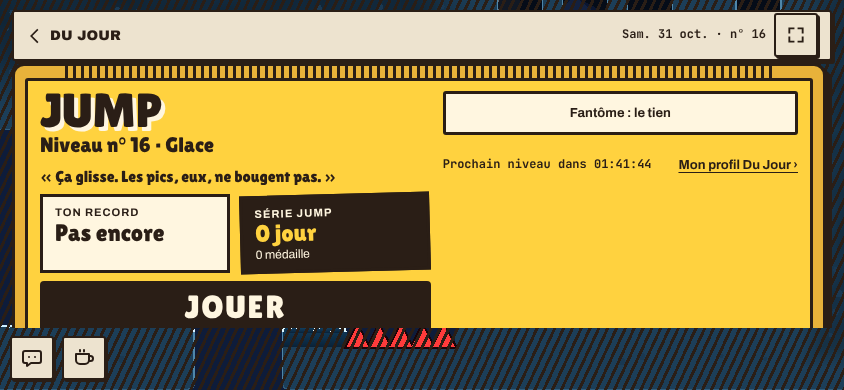
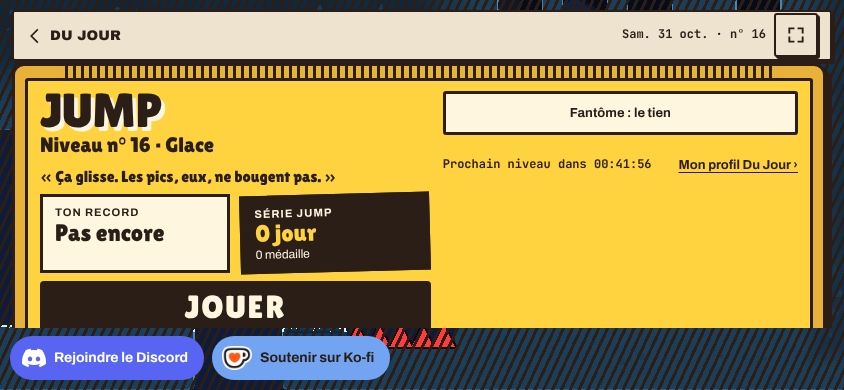
Lot S1 : Discord et Ko-fi dans les jeux avec l'aspect des boutons du portail
Claude-Session: https://claude.ai/code/session_012eMWG36Y1u5dAEff1c1V8B

Changed region(s): [[0.0, 0.8615, 0.4621, 0.9846], [0.7085, 0.4, 0.7701, 0.4308]]

diff --git a/packages/ui/src/liensCommunaute.ts b/packages/ui/src/liensCommunaute.ts
@@ -1,41 +1,40 @@
 import "./liensCommunaute.css";
+import pictoDiscord from "./discord.svg?no-inline";
+import tasseKofi from "./kofi-tasse.png";
 
-// Lot S1 : les liens de la communauté (Discord, Ko-fi), **le seul composant et les seules adresses** de la plateforme : le pied du portail (`boutonCommunaute.ts`) et l'accueil de chaque jeu
-// (deux plaques de 44 px, icônes au trait, en bas à gauche). De simples liens : aucun script, bouton intégré ni image d'un service tiers (règle du site), nouvel onglet sans transmettre la
-// page d'origine, aucun paramètre qui identifie le joueur. **À la demande, et sans rien importer du reste du socle** : les textes lui sont donnés, déjà traduits.
+// Lot S1 : les liens de la communauté (Discord, Ko-fi), **le seul composant et les seules adresses** de la plateforme, avec **le même aspect partout** : celui des boutons du pied du portail (le bleu de Ko-fi
+// et sa tasse, le bleu-violet de Discord et son pictogramme, faits ici — rien n'est chargé de chez eux). De simples liens : aucun script, bouton ni widget intégré (cookies et traceurs tiers), nouvel onglet sans
+// transmettre la page d'origine, aucun paramètre qui identifie le joueur. Les textes sont donnés déjà traduits. Sur l'accueil d'un jeu : `liensCommunaute`, en bas à gauche ; dans le pied du portail : `lienCommunaute`.
 
 export const LIEN_DISCORD = "https://discord.gg/2KZkUSpDej";
 export const LIEN_KOFI = "https://ko-fi.com/C7X829MCE1";
 export type LienCommunaute = "discord" | "kofi";
 export const ADRESSES_COMMUNAUTE: Readonly<Record<LienCommunaute, string>> = { discord: LIEN_DISCORD, kofi: LIEN_KOFI };
 
-/** Les icônes au trait (24 × 24, `currentColor`) : une bulle de discussion, une tasse. */
-const TRACES: Readonly<Record<LienCommunaute, string>> = {
-  discord: "M5 5h14a2 2 0 0 1 2 2v8a2 2 0 0 1-2 2h-8l-4 3v-3H5a2 2 0 0 1-2-2V7a2 2 0 0 1 2-2zM9 11h.01M15 11h.01",
-  kofi: "M4 8h13v6a4 4 0 0 1-4 4H8a4 4 0 0 1-4-4zM17 10h1.5a2.5 2.5 0 0 1 0 5H17M8 4v1.5M12 4v1.5",
-};
+/** Un bouton : le pictogramme (hébergé ici) et le nom. */
+export function lienCommunaute(type: LienCommunaute, texte: string, id: string): HTMLAnchorElement {
+  const a = document.createElement("a");
+  a.className = `dj-communaute__lien dj-communaute__lien--${type}`;
+  a.id = id;
+  a.href = ADRESSES_COMMUNAUTE[type];
+  a.target = "_blank";
+  a.rel = "noopener noreferrer";
+  const img = document.createElement("img");
+  img.alt = "";
+  img.src = type === "kofi" ? tasseKofi : pictoDiscord;
+  img.height = 24;
+  img.width = type === "kofi" ? 30 : 24;
+  const s = document.createElement("span");
+  s.textContent = texte;
+  a.append(img, s);
+  return a;
+}
 
-/** Les deux plaques en bas à gauche d'un écran d'accueil (le nom lu en `aria-label`) : l'appelant les pose dans l'écran, elles disparaissent avec lui. Au changement de langue il en refait un groupe. */
+/** Les deux boutons en bas à gauche d'un écran d'accueil : l'appelant les pose dans l'écran, ils disparaissent avec lui. Au changement de langue il en refait un groupe. */
 export function liensCommunaute(textes: Readonly<Record<LienCommunaute, string>>): HTMLElement {
   const g = document.createElement("div");
   g.className = "dj-communaute dj-sombre";
   g.id = "communaute";
-  for (const type of ["discord", "kofi"] as const) {
-    const a = document.createElement("a");
-    a.className = "dj-communaute__plaque";
-    a.id = `communaute-${type}`;
-    a.href = ADRESSES_COMMUNAUTE[type];
-    a.target = "_blank";
-    a.rel = "noopener noreferrer";
-    a.setAttribute("aria-label", textes[type]);
-    const s = document.createElementNS("http://www.w3.org/2000/svg", "svg");
-    s.setAttribute("viewBox", "0 0 24 24");
-    s.setAttribute("aria-hidden", "true");
-    const p = document.createElementNS("http://www.w3.org/2000/svg", "path");
-    p.setAttribute("d", TRACES[type]);
-    s.append(p);
-    a.append(s);
-    g.append(a);
-  }
+  g.append(lienCommunaute("discord", textes.discord, "communaute-discord"), lienCommunaute("kofi", textes.kofi, "communaute-kofi"));
   return g;
 }

diff --git a/packages/ui/src/liensCommunaute.css b/packages/ui/src/liensCommunaute.css
@@ -1,34 +1,54 @@
-/* Lot S1 : les liens de la communauté (Discord, Ko-fi) — deux plaques de 44 px en bas à gauche de l'accueil d'un jeu, sur la scène sous le voile (le bas à droite est la bande d'aide de la manette).
-   Jetons seulement. L'écran qui les porte leur réserve une bande en bas : rien ne passe dessous (le contenu défile s'il manque de place). */
+/* Lot S1 : les liens de la communauté (Discord, Ko-fi) — le même aspect dans le pied du portail et sur l'accueil des jeux. Jetons seulement. Sur l'accueil d'un jeu : en bas à gauche, sur la scène sous le
+   voile (le bas à droite est la bande d'aide de la manette) ; l'écran qui les porte leur réserve une bande en bas, rien ne passe dessous (le contenu défile s'il manque de place). */
+.dj-communaute__lien {
+  display: inline-flex;
+  align-items: center;
+  gap: var(--dj-espace-3);
+  min-height: var(--dj-cible);
+  padding: 0 var(--dj-espace-7) 0 var(--dj-espace-4);
+  border-radius: 22px;
+  font-family: var(--dj-police-texte);
+  font-weight: 700;
+  font-size: var(--dj-taille-14);
+  line-height: 1.2;
+  text-decoration: none;
+  box-sizing: border-box;
+  transition: transform var(--dj-duree-courte);
+}
+.dj-communaute__lien:hover {
+  transform: translateY(-2px);
+}
+.dj-communaute__lien img {
+  display: block;
+  flex: none;
+  width: auto;
+  height: 24px;
+}
+.dj-communaute__lien--kofi {
+  background: var(--dj-kofi);
+  color: var(--dj-encre);
+}
+.dj-communaute__lien--discord {
+  background: var(--dj-discord);
+  color: var(--dj-blanc);
+  padding-left: var(--dj-espace-5);
+}
 .dj-communaute {
   position: fixed;
   z-index: 1;
   left: max(10px, env(safe-area-inset-left));
   bottom: max(10px, env(safe-area-inset-bottom));
   display: flex;
+  flex-wrap: wrap;
   gap: var(--dj-espace-3);
-}
-.dj-communaute a {
-  display: grid;
-  place-items: center;
-  box-sizing: border-box;
-  width: var(--dj-cible);
-  height: var(--dj-cible);
-  background: var(--dj-creme);
-  color: var(--dj-encre);
-  border: var(--dj-trait) solid var(--dj-encre);
-  border-radius: var(--dj-rayon-bouton);
-  box-shadow: var(--dj-ombre-bouton);
-}
-.dj-communaute svg {
-  width: 24px;
-  height: 24px;
-  fill: none;
-  stroke: currentColor;
-  stroke-width: 2;
-  stroke-linecap: round;
-  stroke-linejoin: round;
+  max-width: calc(100vw - 20px);
 }
 :is(.cadre, .voile, .accueil):has(.dj-communaute) {
   padding-bottom: calc(max(10px, env(safe-area-inset-bottom)) + var(--dj-cible) + var(--dj-espace-3));
+}
+/* Étroit : les deux boutons passent sur deux lignes, la bande réservée double. */
+@media (max-width: 480px) {
+  :is(.cadre, .voile, .accueil):has(.dj-communaute) {
+    padding-bottom: calc(max(10px, env(safe-area-inset-bottom)) + 2 * var(--dj-cible) + 2 * var(--dj-espace-3));
+  }
 }

diff --git a/apps/web/e2e/accueil.spec.ts b/apps/web/e2e/accueil.spec.ts
@@ -52,10 +52,10 @@ test.describe("l'accueil", () => {
     // Plus de carte de profil sur l'accueil : un lien vers le profil commun du portail, avec le chemin de retour vers le jeu.
     await expect(page.locator("#home-profile")).toHaveAttribute("href", /profil\/\?retour=/);
     for (const label of ["Archives", "Réglages", "Comment jouer"]) await expect(page.locator("#home .links").getByRole("button", { name: new RegExp(label) })).toBeVisible();
-    // Lot S1 : Discord et Ko-fi, deux plaques de 44 px en bas à gauche, en liens sortants sans rien qui identifie le joueur ; elles ne chevauchent rien.
+    // Lot S1 : Discord et Ko-fi, deux boutons de 44 px de haut (l'aspect du portail) en bas à gauche, en liens sortants sans rien qui identifie le joueur ; elles ne chevauchent rien.
     const plaques = await boxes(page, ["#communaute-discord", "#communaute-kofi", "#home-daily", "#home-salon", "#home-portail", "#home .links"]);
     expect(plaques).toHaveLength(6);
-    for (const b of plaques.slice(0, 2)) expect([b.w, b.h]).toEqual([44, 44]);
+    for (const b of plaques.slice(0, 2)) expect(b.h).toBe(44);
     expect(plaques[0]!.x, "bas à gauche").toBeLessThan(DESKTOP.width / 4);
     expect(plaques[0]!.y).toBeGreaterThan(DESKTOP.height / 2);
     expectNoOverlap(plaques, DESKTOP);
@@ -65,8 +65,8 @@ test.describe("l'accueil", () => {
       await expect(lien).toHaveAttribute("target", "_blank");
       await expect(lien).toHaveAttribute("rel", "noopener noreferrer");
     }
-    await expect(page.locator("#communaute-discord")).toHaveAttribute("aria-label", "Rejoindre le Discord");
-    await expect(page.locator("#communaute-kofi")).toHaveAttribute("aria-label", "Soutenir sur Ko-fi");
+    await expect(page.locator("#communaute-discord")).toHaveText("Rejoindre le Discord");
+    await expect(page.locator("#communaute-kofi")).toHaveText("Soutenir sur Ko-fi");
     // Le HUD de course n'est pas là : on est à l'accueil.
     await expect(page.locator("#menu")).toBeHidden();
     await expect(page.locator("#speed")).toBeHidden();

diff --git a/apps/portail/src/portail.ts b/apps/portail/src/portail.ts
@@ -39,9 +39,7 @@ import {
   visibiliteDeLaPage,
 } from "@cdj/ui";
 import { CATALOGUE_PORTAIL } from "./catalogue";
-import { boutonCommunaute } from "@cdj/ui/src/boutonCommunaute";
-import pictoDiscord from "./discord.svg?no-inline";
-import tasseKofi from "./kofi-tasse.png";
+import { lienCommunaute } from "@cdj/ui/src/liensCommunaute";
 import { avancement, baseApi, formatCompte, lireJour, prochainMinuit, type Etat, type JeuDuJour, type Lecture } from "./jour";
 import { dans, nonLue } from "./nouveautesDonnees";
 import { cartes, numeroDeJournee, type CarteJeu } from "./jours";
@@ -324,16 +322,9 @@ function rendre(): void {
   if (focus) racine.querySelector<HTMLElement>(`[data-cle="${focus}"]`)?.focus();
 }
 
-/**
- * Les boutons Discord et Ko-fi du pied : le composant du socle (`boutonCommunaute`, lot S1 — les adresses n'y sont écrites qu'une fois), à l'allure des services (leur bleu, leur pictogramme ;
- * l'habillage est dans `portail.css`) : de simples liens, **ni widget ni script intégrés** (cookies et traceurs tiers). L'image est hébergée ici.
- */
-function lienDiscord(texte: string): HTMLElement {
-  return boutonCommunaute("discord", { texte, classe: "portail-discord", id: "discord", image: { src: pictoDiscord, classe: "portail-discord__picto", largeur: 24, hauteur: 24 } });
-}
-function lienKofi(texte: string): HTMLElement {
-  return boutonCommunaute("kofi", { texte, classe: "portail-kofi", id: "kofi", image: { src: tasseKofi, classe: "portail-kofi__tasse", largeur: 30, hauteur: 24 } });
-}
+/** Les boutons Discord et Ko-fi du pied : le composant du socle (`lienCommunaute`, lot S1), le même aspect que sur l'accueil des jeux. */
+const lienDiscord = (texte: string): HTMLElement => lienCommunaute("discord", texte, "discord");
+const lienKofi = (texte: string): HTMLElement => lienCommunaute("kofi", texte, "kofi");
 
 // --- Le compte à rebours (heure du serveur) -----------------------------------------------------------------------------------
 let minuterie: ReturnType<typeof setTimeout> | null = null;

diff --git a/apps/portail/src/portail.css b/apps/portail/src/portail.css
@@ -653,57 +653,6 @@
   margin: var(--dj-espace-4) 0 var(--dj-espace-2);
 }
 
-/* Le bouton Ko-fi : l'allure de celui de Ko-fi (bleu de leur charte, la tasse au cœur), fait ici — rien n'est chargé de leur site. Texte encre : le blanc d'origine ne passe pas le contraste. */
-.portail-kofi {
-  --kofi-bleu: #72a4f2;
-  display: inline-flex;
-  align-items: center;
-  gap: var(--dj-espace-3);
-  min-height: var(--dj-cible);
-  padding: 0 var(--dj-espace-7) 0 var(--dj-espace-4);
-  border-radius: 22px;
-  background: var(--kofi-bleu);
-  color: var(--dj-encre);
-  font-weight: 700;
-  font-size: var(--dj-taille-14);
-  text-decoration: none;
-  box-sizing: border-box;
-  transition: transform var(--dj-duree-courte);
-}
-.portail-kofi:hover {
-  transform: translateY(-2px);
-}
-.portail-kofi__tasse {
-  display: block;
-  width: auto;
-  height: 24px;
-}
-
-/* Le bouton Discord : l'allure de Discord (le bleu-violet de leur charte, leur pictogramme), fait ici — rien n'est chargé de leur site. Texte blanc : 4,6:1 sur ce bleu. */
-.portail-discord {
-  --discord-bleu: #5865f2;
-  display: inline-flex;
-  align-items: center;
-  gap: var(--dj-espace-3);
-  min-height: var(--dj-cible);
-  padding: 0 var(--dj-espace-7) 0 var(--dj-espace-5);
-  border-radius: 22px;
-  background: var(--discord-bleu);
-  color: #fff;
-  font-weight: 700;
-  font-size: var(--dj-taille-14);
-  text-decoration: none;
-  box-sizing: border-box;
-  transition: transform var(--dj-duree-courte);
-}
-.portail-discord:hover {
-  transform: translateY(-2px);
-}
-.portail-discord__picto {
-  display: block;
-  flex: none;
-}
-
 /* Lot P : le badge d'une cartouche du portail pour un jeu pas encore `on` (aperçu de PR). */
 .dj-badge-brouillon {
   display: inline-block;

diff --git a/packages/ui/src/contraste.ts b/packages/ui/src/contraste.ts
@@ -41,6 +41,8 @@ export const PAIRES: readonly PaireCouleurs[] = [
   { couleur: "dj-papier", fond: "dj-encre", taille: "normal", usage: "étiquette « Important » d'un message en direct (information)" },
   { couleur: "dj-moutarde", fond: "dj-encre", taille: "normal", usage: "étiquette « Important » d'un message en direct" },
   { couleur: "dj-terre-texte", fond: "dj-terre", taille: "normal", usage: "bouton principal de marque" },
+  { couleur: "dj-encre", fond: "dj-kofi", taille: "normal", usage: "bouton Ko-fi" },
+  { couleur: "dj-blanc", fond: "dj-discord", taille: "normal", usage: "bouton Discord" },
   { couleur: "dj-encre", fond: "dj-moutarde", taille: "normal", usage: "avatar, coque Jump" },
   { couleur: "dj-ambre", fond: "dj-ecran", taille: "normal", usage: "chiffres de l'afficheur" },
   { couleur: "dj-ecran-texte", fond: "dj-ecran", taille: "normal", usage: "légende de l'afficheur" },

diff --git a/apps/jump/e2e/plein-ecran.spec.ts b/apps/jump/e2e/plein-ecran.spec.ts
@@ -140,7 +140,7 @@ for (const viewport of [
       await expect(page.locator("#communaute")).toBeVisible();
       const plaques = await boxes(page, ["#communaute-discord", "#communaute-kofi", "#home-play", "#home-ghost"]);
       expect(plaques).toHaveLength(4); // la rangée Archives / Comment jouer / Réglages défile au-dessus de la bande réservée aux plaques (la coque dépasse l'écran en 844 × 390)
-      for (const b of plaques.slice(0, 2)) expect([b.w, b.h]).toEqual([44, 44]);
+      for (const b of plaques.slice(0, 2)) expect(b.h).toBe(44);
       expect(plaques[0]!.x, "bas à gauche").toBeLessThan(viewport.width / 4);
       expectNoOverlap(plaques, viewport);
       for (const [id, href] of [["discord", "https://discord.gg/2KZkUSpDej"], ["kofi", "https://ko-fi.com/C7X829MCE1"]] as const) {

diff --git a/apps/tower/src/accueil.css b/apps/tower/src/accueil.css
@@ -387,7 +387,7 @@
   }
 }
 
-/* Lot S1 : l'accueil qui porte les plaques Discord / Ko-fi (liensCommunaute.css réserve une bande en bas, padding du voile) : c'est la colonne qui défile, dans ce qui reste, pour que le contenu ne passe jamais sous les plaques. */
+/* Lot S1 : l'accueil qui porte les boutons Discord / Ko-fi (liensCommunaute.css réserve une bande en bas, padding du voile) : c'est la colonne qui défile, dans ce qui reste, pour que le contenu ne passe jamais sous les boutons. */
 .voile--accueil:has(.dj-communaute) {
   overflow-y: hidden;
 }

diff --git a/apps/tower/e2e/partie.spec.ts b/apps/tower/e2e/partie.spec.ts
@@ -41,7 +41,7 @@ async function verifierLiensCommunaute(page: import("@playwright/test").Page): P
   const plaques = [await rect("#communaute-discord"), await rect("#communaute-kofi")];
   const vue = page.viewportSize()!;
   for (const b of plaques) {
-    expect([b.width, b.height]).toEqual([44, 44]);
+    expect(b.height).toBe(44);
     expect(b.x).toBeLessThan(vue.width / 4);
     expect(b.y).toBeGreaterThan(vue.height / 2);
     for (const autre of [await rect("#accueil-jouer"), await rect("#accueil-aide")]) {

diff --git a/packages/ui/src/jetons.ts b/packages/ui/src/jetons.ts
@@ -17,6 +17,9 @@ export const COULEURS = {
   "dj-terre": "#C2401F",
   "dj-terre-texte": "#FFF4E0",
   "dj-moutarde": "#E8B23A",
+  "dj-kofi": "#72A4F2", // lot S1 : le bleu du bouton Ko-fi (portail et accueil des jeux)
+  "dj-discord": "#5865F2", // lot S1 : le bleu-violet du bouton Discord
+  "dj-blanc": "#FFFFFF", // lot S1 : le texte du bouton Discord
   "dj-ecran": "#3A2C20",
   "dj-ambre": "#F2B544",
   "dj-ecran-texte": "#E9DCC2",

diff --git a/packages/ui/src/css.d.ts b/packages/ui/src/css.d.ts
@@ -5,3 +5,12 @@ declare module "*.css?url" {
   const adresse: string;
   export default adresse;
 }
+// Lot S1 : les images des boutons Discord et Ko-fi (`liensCommunaute.ts`), servies comme des fichiers du site.
+declare module "*.svg?no-inline" {
+  const adresse: string;
+  export default adresse;
+}
+declare module "*.png" {
+  const adresse: string;
+  export default adresse;
+}

diff --git a/packages/ui/src/jetons.css b/packages/ui/src/jetons.css
@@ -10,6 +10,9 @@
   --dj-terre: #C2401F;
   --dj-terre-texte: #FFF4E0;
   --dj-moutarde: #E8B23A;
+  --dj-kofi: #72A4F2;
+  --dj-discord: #5865F2;
+  --dj-blanc: #FFFFFF;
   --dj-ecran: #3A2C20;
   --dj-ambre: #F2B544;
   --dj-ecran-texte: #E9DCC2;
